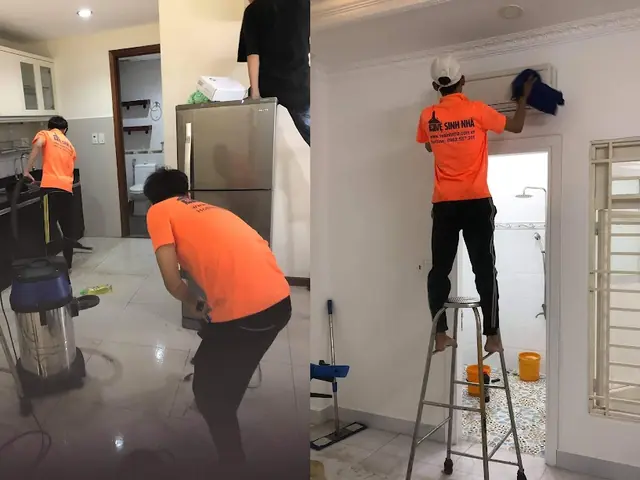
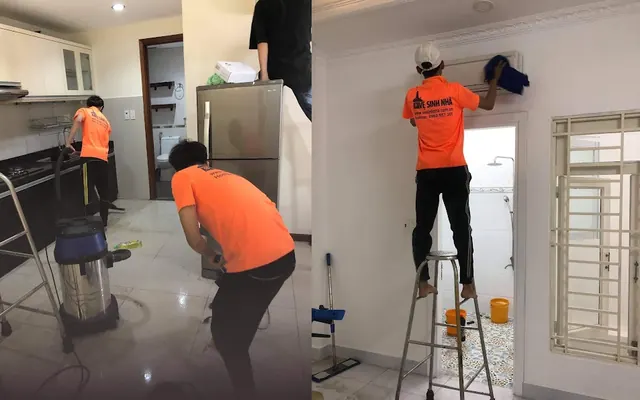
Recrop service card photos to 16:10, match progyny.com card style
Studied progyny.com's photography treatment (circle crops in hero,
large-radius rounded-rectangle photos edge-to-edge in feature cards).
Switched from a tight 4:3 crop to a wider 16:10 crop that needs less
cropping per source photo, and bumped the corner radius to 20px to
match their card look more closely.

diff --git a/family-reconnect.html b/family-reconnect.html
@@ -273,7 +273,7 @@ section{padding-block:clamp(64px, 9vw, 120px);scroll-margin-top:72px}
    ========================================================= */
 .services{display:grid;grid-template-columns:repeat(4,1fr);gap:16px}
 .svc{background:var(--surface);border:1px solid var(--line);border-radius:var(--radius-lg);padding:22px;display:grid;gap:14px;align-content:start}
-.svc-photo{display:block;width:calc(100% + 44px);margin:-22px -22px 0;aspect-ratio:4/3;object-fit:cover;border-radius:var(--radius-lg) var(--radius-lg) 0 0}
+.svc-photo{display:block;width:calc(100% + 44px);margin:-22px -22px 0;aspect-ratio:16/10;object-fit:cover;border-radius:20px 20px 0 0}
 .svc-ico{width:52px;height:52px;border-radius:16px;background:var(--coral-tint);color:var(--coral-ink);display:grid;place-items:center}
 .svc h3{font-size:22px}
 .svc ul{margin:0;padding-left:18px;display:grid;gap:6px;font-size:15px;color:var(--ink-2)}
@@ -783,7 +783,7 @@ section{padding-block:clamp(64px, 9vw, 120px);scroll-margin-top:72px}
     </div>
     <div class="services">
       <article class="svc">
-        <img class="svc-photo" src="images/services-childcare.webp" alt="" loading="lazy" width="640" height="480">
+        <img class="svc-photo" src="images/services-childcare.webp" alt="" loading="lazy" width="640" height="400">
         <div class="svc-ico"><svg width="26" height="26" viewBox="0 0 24 24" fill="none" stroke="currentColor" stroke-width="1.8" stroke-linecap="round" stroke-linejoin="round" aria-hidden="true"><circle cx="9" cy="6.5" r="2.5"/><circle cx="16.5" cy="10" r="1.8"/><path d="M4.5 20v-3.5A4.5 4.5 0 0 1 9 12a4.5 4.5 0 0 1 4.5 4.5V20M13.8 20v-2.4a2.7 2.7 0 0 1 5.4 0V20"/></svg></div>
         <h3><span data-l="vi">Trông trẻ</span><span data-l="en">Childcare</span></h3>
         <ul>
@@ -795,7 +795,7 @@ section{padding-block:clamp(64px, 9vw, 120px);scroll-margin-top:72px}
         <p class="partner"><span data-l="vi">Đối tác: Vi Easy Care</span><span data-l="en">Partner: Vi Easy Care</span></p>
       </article>
       <article class="svc">
-        <img class="svc-photo" src="images/services-meals.webp" alt="" loading="lazy" width="640" height="480">
+        <img class="svc-photo" src="images/services-meals.webp" alt="" loading="lazy" width="640" height="400">
         <div class="svc-ico"><svg width="26" height="26" viewBox="0 0 24 24" fill="none" stroke="currentColor" stroke-width="1.8" stroke-linecap="round" stroke-linejoin="round" aria-hidden="true"><path d="M3 13h18M5 13a7 7 0 0 1 14 0M12 6V4M4 17h16l-1.5 3h-13Z"/></svg></div>
         <h3><span data-l="vi">Nấu ăn</span><span data-l="en">Meals</span></h3>
         <ul>
@@ -807,7 +807,7 @@ section{padding-block:clamp(64px, 9vw, 120px);scroll-margin-top:72px}
         <p class="partner"><span data-l="vi">Đối tác: Việc Nhà VN</span><span data-l="en">Partner: Việc Nhà VN</span></p>
       </article>
       <article class="svc">
-        <img class="svc-photo" src="images/services-school.webp" alt="" loading="lazy" width="640" height="480">
+        <img class="svc-photo" src="images/services-school.webp" alt="" loading="lazy" width="640" height="400">
         <div class="svc-ico"><svg width="26" height="26" viewBox="0 0 24 24" fill="none" stroke="currentColor" stroke-width="1.8" stroke-linecap="round" stroke-linejoin="round" aria-hidden="true"><path d="M4 16V9l3-4h10l3 4v7M4 16h16M4 16v2M20 16v2"/><circle cx="7.5" cy="13" r=".8"/><circle cx="16.5" cy="13" r=".8"/></svg></div>
         <h3><span data-l="vi">Đưa đón con đi học</span><span data-l="en">School runs</span></h3>
         <ul>
@@ -819,7 +819,7 @@ section{padding-block:clamp(64px, 9vw, 120px);scroll-margin-top:72px}
         <p class="partner"><span data-l="vi">Đối tác: Vi Easy Care</span><span data-l="en">Partner: Vi Easy Care</span></p>
       </article>
       <article class="svc">
-        <img class="svc-photo" src="images/services-housekeeping.webp" alt="" loading="lazy" width="640" height="480">
+        <img class="svc-photo" src="images/services-housekeeping.webp" alt="" loading="lazy" width="640" height="400">
         <div class="svc-ico"><svg width="26" height="26" viewBox="0 0 24 24" fill="none" stroke="currentColor" stroke-width="1.8" stroke-linecap="round" stroke-linejoin="round" aria-hidden="true"><path d="M3 11 12 4l9 7M5 10v10h14V10"/><path d="M10 20v-5h4v5"/></svg></div>
         <h3><span data-l="vi">Dọn dẹp nhà cửa</span><span data-l="en">Housekeeping</span></h3>
         <ul>
